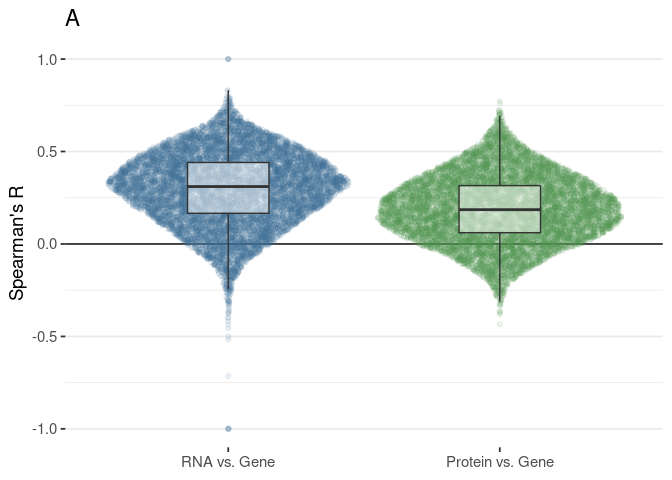
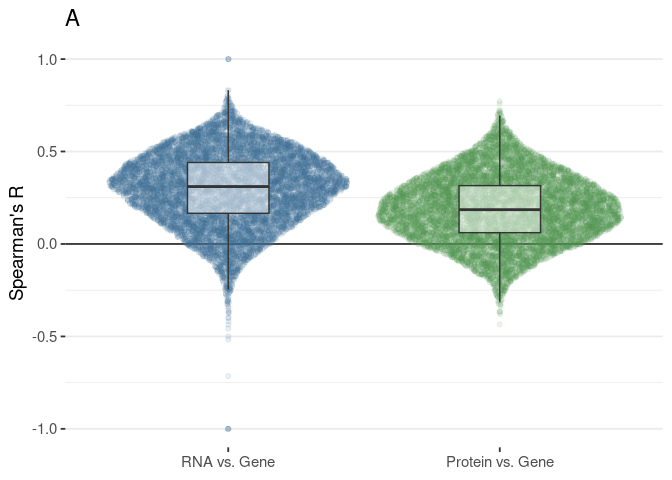
Reduced the size of the side panels.

Changed region(s): [[0.1562, 0.2188, 0.5312, 0.5938], [0.5625, 0.25, 0.9375, 0.625]]

diff --git a/simple_figures/simple_figures.md b/simple_figures/simple_figures.md
@@ -617,7 +617,7 @@ plot_values <- ggplot(
     legend.justification = c(0, 1), 
     legend.position = c(0.01, 0.99),
     legend.title = element_blank(),
-    ggside.panel.scale = 0.3,
+    ggside.panel.scale = 0.2,
     ggside.axis.ticks = element_blank(),
     ggside.axis.text = element_blank(),
     ggside.panel.grid = element_blank(),
